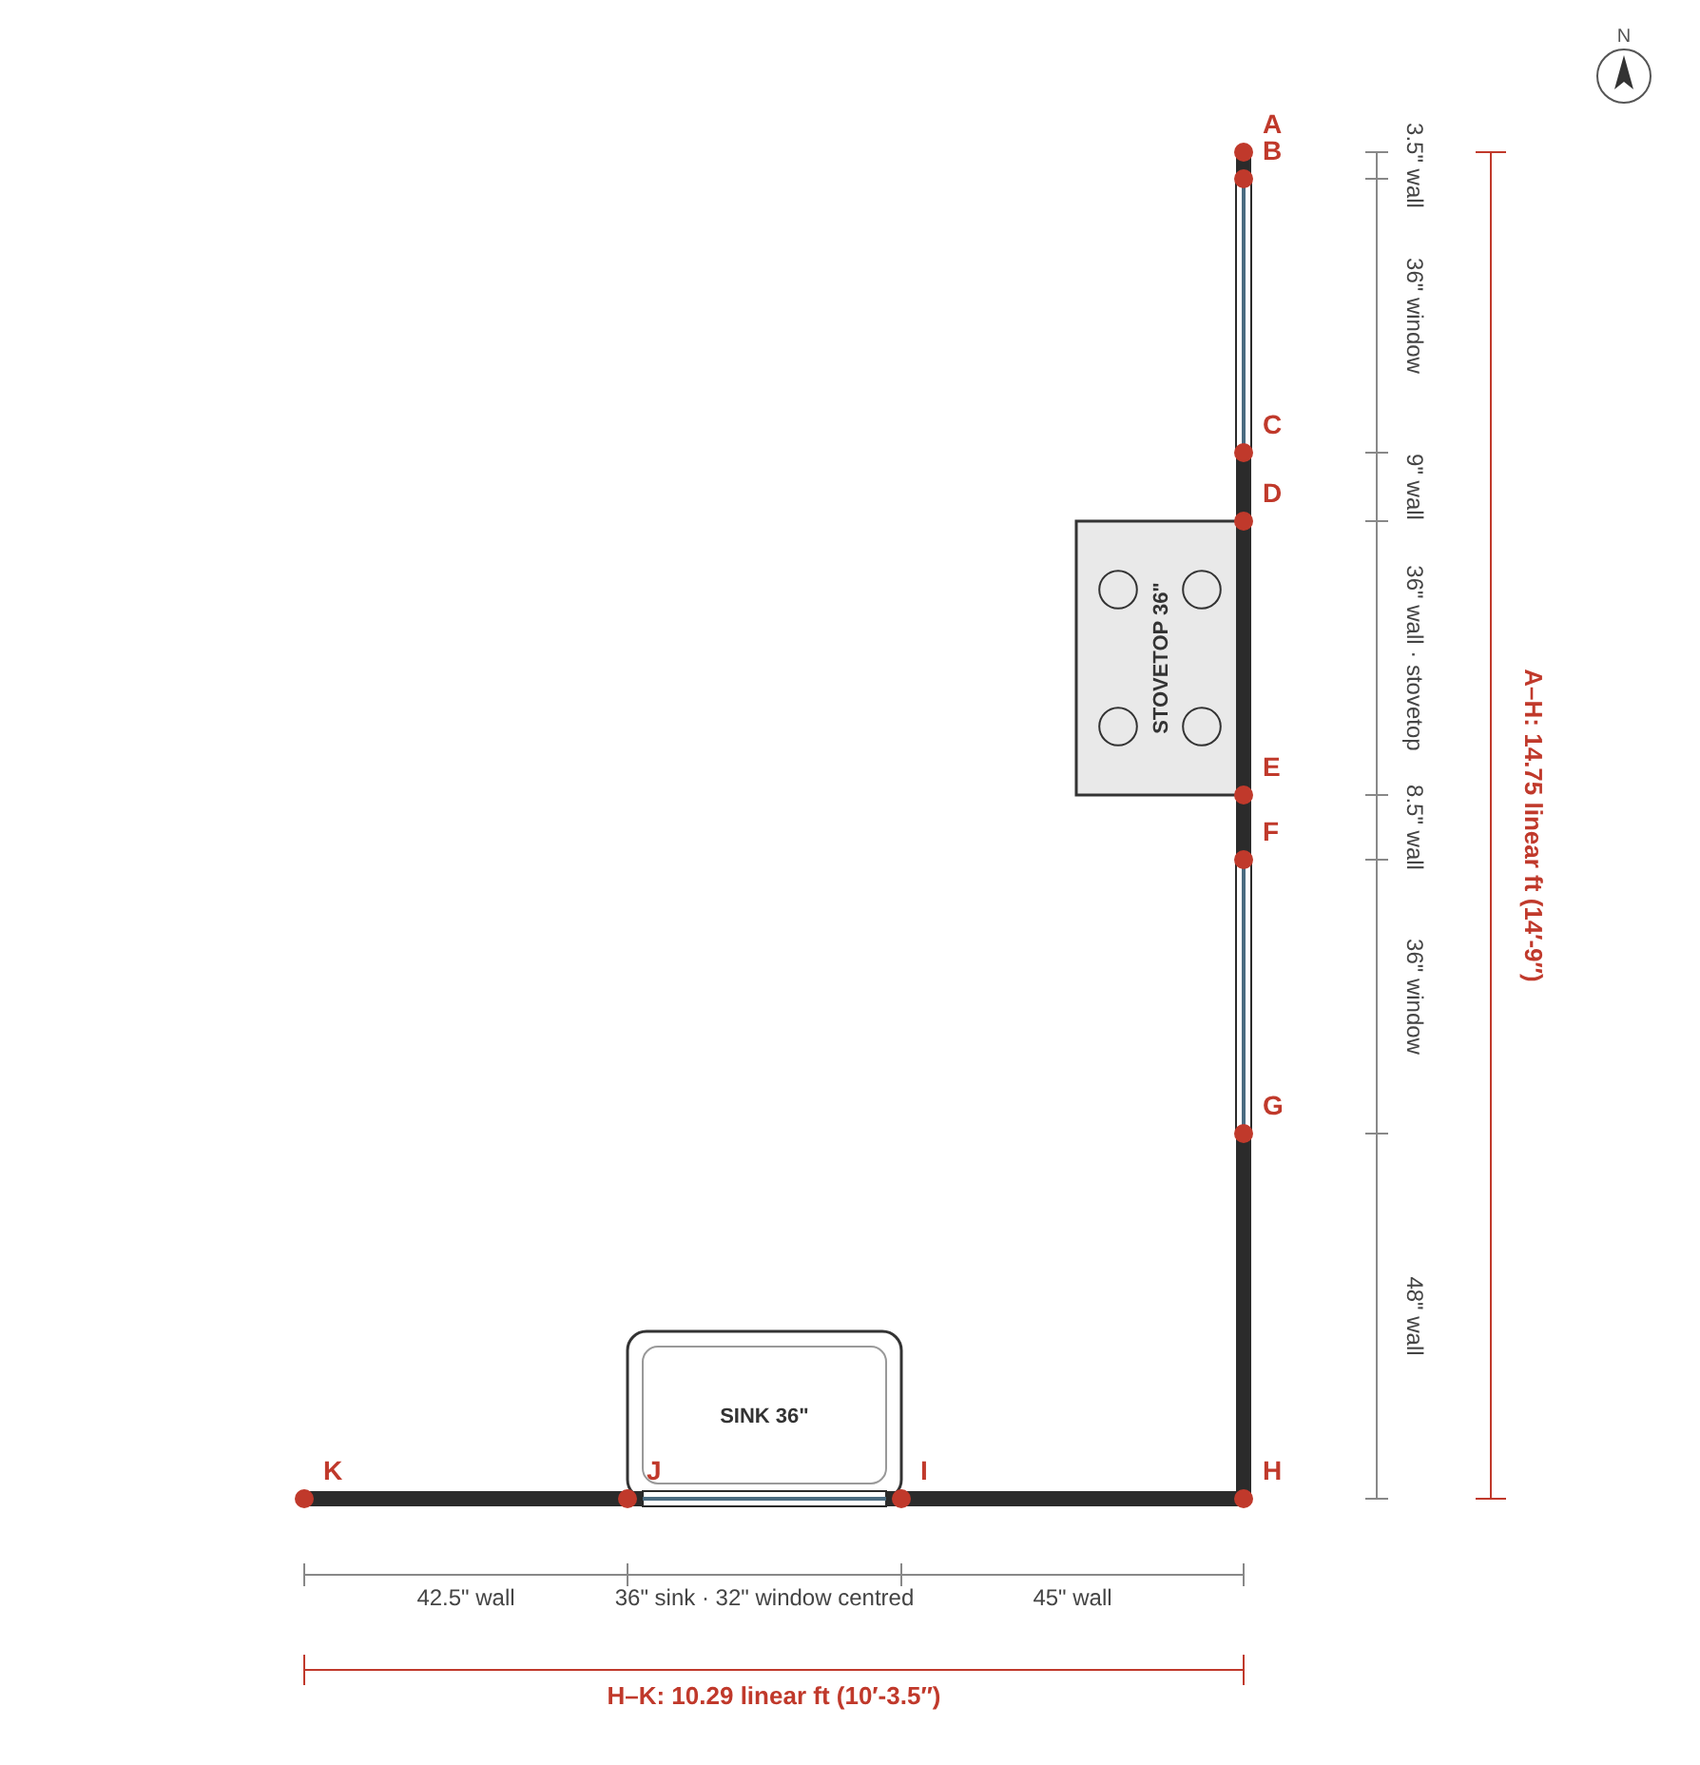
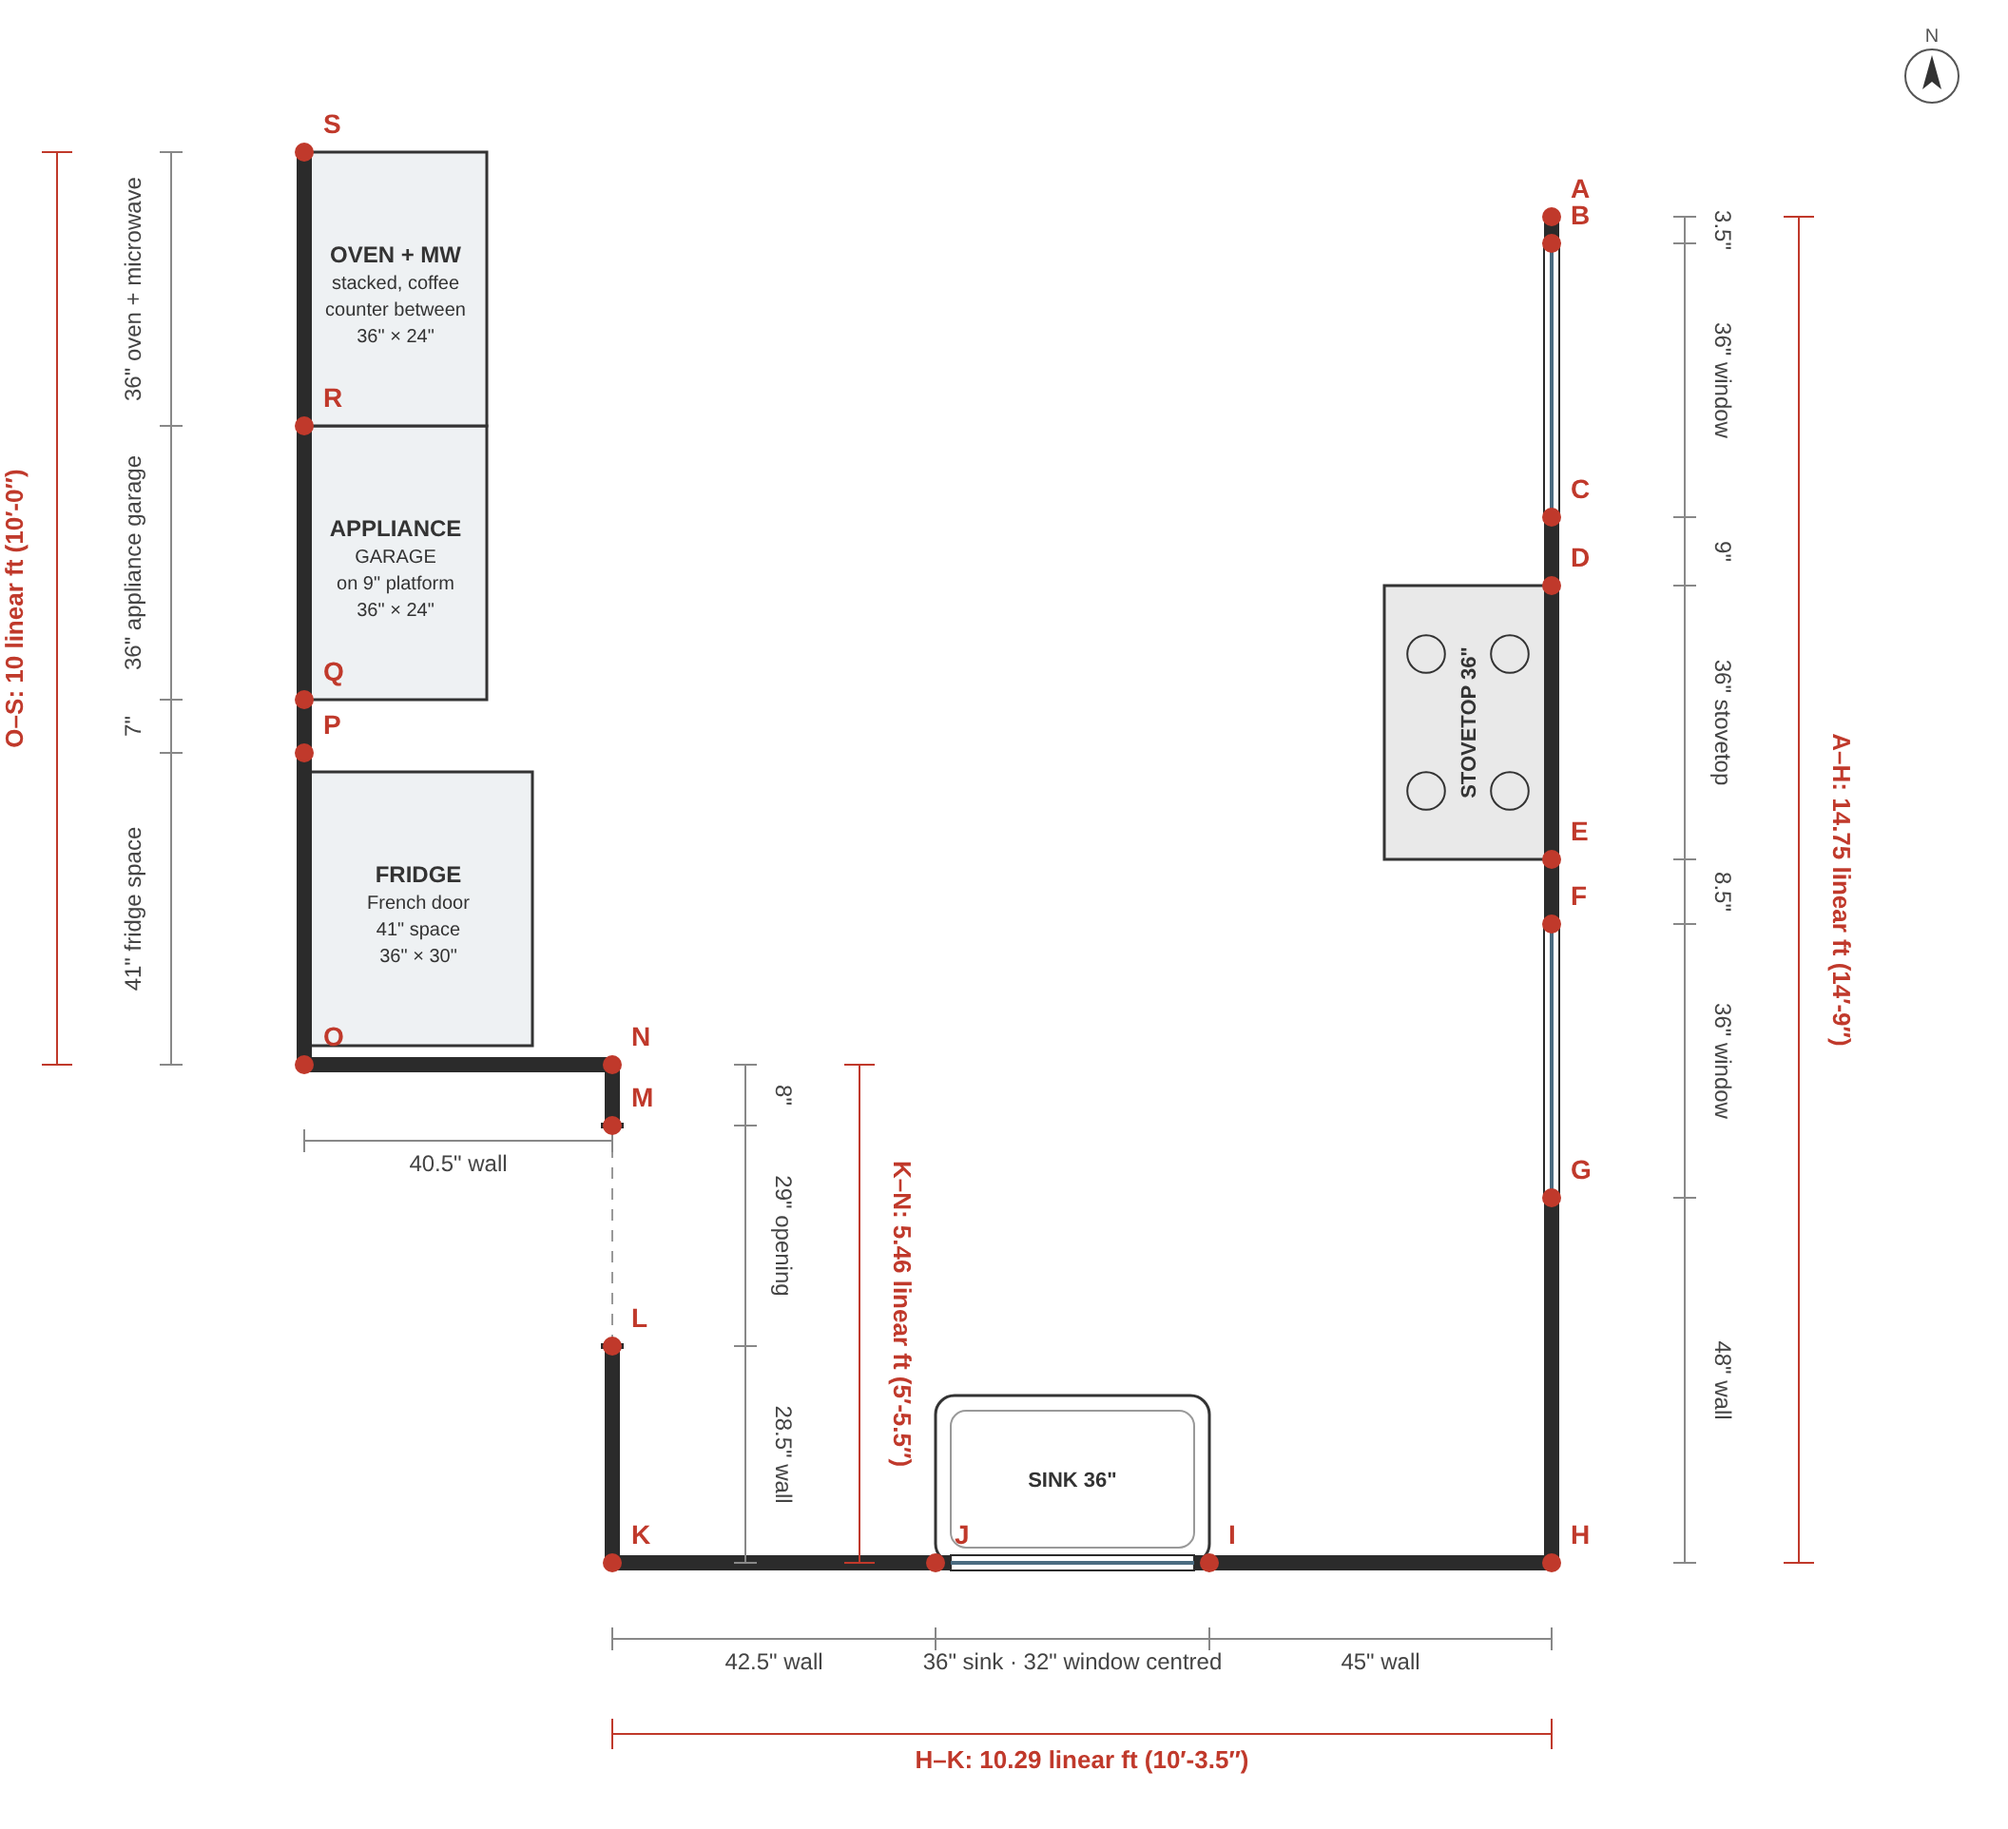
Floor plan: add west wall K-S (opening, fridge alcove, appliance garage, oven + microwave on 9in platform); west elevation
Claude-Session: https://claude.ai/code/session_01N1gJVqnW36KpNULQpj6QJQ

diff --git a/floorplans/build_floorplan.py b/floorplans/build_floorplan.py
@@ -13,7 +13,7 @@ SEGMENTS = [
     ("S", 3.5, "wall", "B"),
     ("S", 36, "window", "C"),
     ("S", 9, "wall", "D"),
-    ("S", 36, "wall:wall · stovetop", "E"),
+    ("S", 36, "wall:stovetop", "E"),
     ("S", 8.5, "wall", "F"),
     ("S", 36, "window", "G"),
     ("S", 48, "wall", "H"),
@@ -23,7 +23,20 @@ SEGMENTS = [
     ("W", 32, "window", "_w2"),
     ("W", 2, "wall", "J"),
     ("W", 42.5, "wall", "K"),
+    # West wall, K to S (south to north), with a 40.5" jog west at N-O
+    ("N", 28.5, "wall", "L"),
+    ("N", 29, "opening:opening", "M"),
+    ("N", 8, "wall", "N"),
+    ("W", 40.5, "wall", "O"),
+    ("N", 41, "wall:fridge space", "P"),
+    ("N", 7, "wall", "Q"),
+    ("N", 36, "wall:appliance garage", "R"),
+    ("N", 36, "wall:oven + microwave", "S"),
 ]
+
+# Force dimension side for walls whose outside is cluttered, keyed by segment end label
+# (1 = east/south of the wall, -1 = west/north). Totals use "A-B" keys.
+DIM_SIDE = {"L": 1, "M": 1, "N": 1, "K-N": 1}
 
 # Dimensions for runs whose segments use hidden "_" points: (from, to, text)
 SPANS = [("I", "J", '36" sink · 32" window centred')]
@@ -31,7 +44,7 @@ SPANS = [("I", "J", '36" sink · 32" window centred')]
 LABELS = {"opening": "walkway opening"}
 MARGIN = 80
 # Overall run dimensions drawn outside the segment dimensions: (from label, to label)
-TOTALS = [("A", "H"), ("H", "K")]
+TOTALS = [("A", "H"), ("H", "K"), ("K", "N"), ("O", "S")]
 
 # Countertops along walls: (points along the wall, depth in inches)
 # Points may be a label or an (x, y) position in inches.
@@ -43,8 +56,12 @@ CORNER_BASE = None
 COUNTERS = []
 
 # Appliances against a wall: (label, from point, to point, width, depth[, note]).
-# Placed flush against the "to" point, projecting into the room.
-APPLIANCES = []
+# Centred on the wall segment between the two points, projecting into the room.
+APPLIANCES = [
+    ("FRIDGE", "P", "O", 36, 30, "French door", '41" space'),
+    ("APPLIANCE", "R", "Q", 36, 24, "GARAGE", "on 9\" platform"),
+    ("OVEN + MW", "S", "R", 36, 24, "stacked, coffee", "counter between"),
+]
 
 # Design constraints: segments (by end points) that must never be a window.
 NO_WINDOW = []
@@ -151,12 +168,14 @@ def build():
         if a[1] == b[1]:  # vertical wall
             nx = 1 if cx_in > a[1] else -1
             sy = 1 if a[2] > b[2] else -1  # from b back toward a
+            off = (abs(a[2] - b[2]) - w) / 2  # centred on the wall segment
             rx = (a[1], a[1] + nx * dep)
-            ry = (b[2], b[2] + sy * w)
+            ry = (b[2] + sy * off, b[2] + sy * (off + w))
         else:
             ny = 1 if cy_in > a[2] else -1
             sx = 1 if a[1] > b[1] else -1
-            rx = (b[1], b[1] + sx * w)
+            off = (abs(a[1] - b[1]) - w) / 2
+            rx = (b[1] + sx * off, b[1] + sx * (off + w))
             ry = (a[2], a[2] + ny * dep)
         (x1, y1), (x2, y2) = P(min(rx), min(ry)), P(max(rx), max(ry))
         out.append(f'  <g id="appliance-{name.lower()}"><rect x="{x1}" y="{y1}" width="{x2 - x1}" height="{y2 - y1}" fill="#eef1f3" stroke="#333" stroke-width="1.5"/>'
@@ -259,16 +278,16 @@ def build():
         g.append('</g>')
         out.append("".join(g))
 
-    def seg_dim(x1, y1, x2, y2, vertical, text):
+    def seg_dim(x1, y1, x2, y2, vertical, text, force=None):
         if vertical:
-            side = 1 if (x1 - ox) / SCALE >= (min(xs) + max(xs)) / 2 else -1  # keep dims outside the room
+            side = force or (1 if (x1 - ox) / SCALE >= (min(xs) + max(xs)) / 2 else -1)  # keep dims outside the room
             dx_ = x1 + side * (DIM_OFFSET + 30)
             mid = (y1 + y2) / 2
             out.append(f'  <g stroke="#888"><line x1="{dx_}" y1="{y1}" x2="{dx_}" y2="{y2}"/>'
                        f'<line x1="{dx_-6}" y1="{y1}" x2="{dx_+6}" y2="{y1}"/><line x1="{dx_-6}" y1="{y2}" x2="{dx_+6}" y2="{y2}"/></g>')
             out.append(f'  <text x="{dx_+16*side}" y="{mid}" font-size="12" fill="#444" text-anchor="middle" transform="rotate({90*side} {dx_+16*side} {mid})">{text}</text>')
         else:
-            vside = 1 if (y1 - oy) / SCALE >= (min(ys) + max(ys)) / 2 else -1
+            vside = force or (1 if (y1 - oy) / SCALE >= (min(ys) + max(ys)) / 2 else -1)
             dy_ = y1 + vside * DIM_OFFSET
             mid = (x1 + x2) / 2
             out.append(f'  <g stroke="#888"><line x1="{x1}" y1="{dy_}" x2="{x2}" y2="{dy_}"/>'
@@ -304,7 +323,8 @@ def build():
                        f'<line x1="{x1}" y1="{y1}" x2="{x2}" y2="{y2}" stroke="#4a6b80" stroke-width="2"/></g>')
         # dimension (segments touching a hidden "_" point are dimensioned by SPANS instead)
         if not (a[0].startswith("_") or b[0].startswith("_")):
-            seg_dim(x1, y1, x2, y2, vertical, f'{length}" {name}')
+            text = f'{length}"' if length < 12 else f'{length}" {name}'  # short segments: number only
+            seg_dim(x1, y1, x2, y2, vertical, text, DIM_SIDE.get(b[0]))
 
     for a_lbl, b_lbl, text in SPANS:
         a, b = by_label[a_lbl], by_label[b_lbl]
@@ -319,7 +339,7 @@ def build():
         ft, rem = divmod(inches, 12)
         text = f"{a_lbl}–{b_lbl}: {f"{inches / 12:.2f}".rstrip("0").rstrip(".")} linear ft ({int(ft)}′-{rem:g}″)"
         if x1 == x2:
-            side = 1 if (x1 - ox) / SCALE >= (min(xs) + max(xs)) / 2 else -1
+            side = DIM_SIDE.get(f"{a_lbl}-{b_lbl}") or (1 if (x1 - ox) / SCALE >= (min(xs) + max(xs)) / 2 else -1)
             dx_ = x1 + side * (DIM_OFFSET + 90)
             mid = (y1 + y2) / 2
             out.append(f'  <g stroke="#c0392b"><line x1="{dx_}" y1="{y1}" x2="{dx_}" y2="{y2}"/>'
@@ -355,10 +375,19 @@ ELEVATIONS = [
      ["A", "B", "C", "D", "E", "F", "G", "H"], 96, 96),
     ("south_elevation.svg", "South wall elevation (H–K), viewed from inside facing south",
      ["H", "I", "_w1", "_w2", "J", "K"], 96, 100),
+    ("west_elevation.svg", "West wall elevation (K–S), viewed from inside facing west",
+     ["K", "L", "M", "N", "O", "P", "Q", "R", "S"], 100, 100,
+     {"project": True,  # N-O is a return wall: O-S sits 40.5" further west
+      "platforms": [("P", "S", 9, "raised floor (wooden box) 9\"")],
+      "openings": {"M": 80},  # opening height assumed
+      "zones": [("O", "P", 0, 70, "FRIDGE (French door)", '41" space · height approx.'),
+                ("Q", "R", 9, 100, "APPLIANCE GARAGE", "36\" (could take 12\" from R–S)"),
+                ("R", "S", 9, 100, "OVEN + MICROWAVE", "stacked, coffee counter between")]}),
 ]
 
 
-def build_elevation(filename, title, labels, ceil0, ceil1):
+def build_elevation(filename, title, labels, ceil0, ceil1, opts=None):
+    opts = opts or {}
     pts = {START[0]: (START[1], START[2])}
     kinds = {}
     for seg in SEGMENTS:
@@ -369,7 +398,10 @@ def build_elevation(filename, title, labels, ceil0, ceil1):
         kinds[label] = kind
     along = [0.0]
     for p, q in zip(labels, labels[1:]):
-        along.append(along[-1] + abs(pts[q][0] - pts[p][0]) + abs(pts[q][1] - pts[p][1]))
+        if opts.get("project"):  # flat projection onto the wall's main axis; return walls collapse
+            along.append(along[-1] + abs(pts[q][1] - pts[p][1]))
+        else:
+            along.append(along[-1] + abs(pts[q][0] - pts[p][0]) + abs(pts[q][1] - pts[p][1]))
     pos = dict(zip(labels, along))
     total = along[-1]
     hmax = max(ceil0, ceil1)
@@ -383,7 +415,7 @@ def build_elevation(filename, title, labels, ceil0, ceil1):
          f'<svg xmlns="http://www.w3.org/2000/svg" viewBox="0 0 {w} {h}" width="{w}" height="{h}" font-family="Helvetica, Arial, sans-serif">',
          f'  <rect width="{w}" height="{h}" fill="#fff"/>',
          f'  <text x="{m}" y="30" font-size="16" font-weight="700" fill="#222">{title}</text>',
-         f'  <text x="{m}" y="50" font-size="11" fill="#555">Ceiling {ceil0:g}"{"" if ceil0 == ceil1 else f" rising to {ceil1:g}"}" · counter {COUNTER_HEIGHT}" · scale 4 px = 1"</text>',
+         f'  <text x="{m}" y="50" font-size="11" fill="#555">Ceiling {ceil0:g}"{"" if ceil0 == ceil1 else f" rising to {ceil1:g}" + chr(34)} · counter {COUNTER_HEIGHT}" · scale 4 px = 1"</text>',
          f'  <path d="M {X(0)} {Y(0)} L {X(0)} {Y(ceil0)} L {X(total)} {Y(ceil1)} L {X(total)} {Y(0)} Z" fill="#f7f4ee" stroke="#2b2b2b" stroke-width="3"/>']
     sills = set()
     for i, (p, q) in enumerate(zip(labels, labels[1:])):
@@ -395,6 +427,23 @@ def build_elevation(filename, title, labels, ceil0, ceil1):
         t0, t1 = along[i], along[i + 1]
         o.append(f'  <rect x="{X(t0)}" y="{Y(sill + wh)}" width="{(t1 - t0) * SCALE}" height="{wh * SCALE}" fill="#dceaf3" stroke="#4a6b80" stroke-width="2"/>')
         o.append(f'  <text x="{X((t0 + t1) / 2)}" y="{Y(sill + wh / 2)}" font-size="11" fill="#2e4a5c" text-anchor="middle">WINDOW {t1 - t0:g}" × {wh:g}"</text>')
+    for i, (p, q) in enumerate(zip(labels, labels[1:])):
+        if q in opts.get("openings", {}):
+            oh = opts["openings"][q]
+            t0, t1 = along[i], along[i + 1]
+            o.append(f'  <rect x="{X(t0)}" y="{Y(oh)}" width="{(t1 - t0) * SCALE}" height="{oh * SCALE}" fill="#fff" stroke="#999" stroke-dasharray="6 4"/>')
+            o.append(f'  <text x="{X((t0 + t1) / 2)}" y="{Y(oh / 2)}" font-size="11" fill="#555" text-anchor="middle">OPENING {t1 - t0:g}"</text>'
+                     f'<text x="{X((t0 + t1) / 2)}" y="{Y(oh / 2) + 14}" font-size="9" fill="#777" text-anchor="middle">no door · {oh}" high (assumed)</text>')
+    for a_lbl, b_lbl, ph, txt in opts.get("platforms", []):
+        t0, t1 = sorted((pos[a_lbl], pos[b_lbl]))
+        o.append(f'  <rect x="{X(t0)}" y="{Y(ph)}" width="{(t1 - t0) * SCALE}" height="{ph * SCALE}" fill="#d9c3a0" stroke="#8a6a3d" stroke-width="1.5"/>')
+        o.append(f'  <text x="{X((t0 + t1) / 2)}" y="{Y(ph / 2) + 4}" font-size="10" fill="#5a4320" text-anchor="middle">{txt}</text>')
+    for a_lbl, b_lbl, z0, z1, ztitle, zsub in opts.get("zones", []):
+        t0, t1 = sorted((pos[a_lbl], pos[b_lbl]))
+        o.append(f'  <rect x="{X(t0) + 3}" y="{Y(z1) + 3}" width="{(t1 - t0) * SCALE - 6}" height="{(z1 - z0) * SCALE - 6}" fill="#eef1f3" fill-opacity="0.6" stroke="#333" stroke-width="1.25" stroke-dasharray="6 4"/>')
+        zc = (z0 + z1) / 2
+        o.append(f'  <text x="{X((t0 + t1) / 2)}" y="{Y(zc)}" font-size="11" font-weight="700" fill="#333" text-anchor="middle">{ztitle}</text>'
+                 f'<text x="{X((t0 + t1) / 2)}" y="{Y(zc) + 14}" font-size="9" fill="#555" text-anchor="middle">{zsub}</text>')
     for kind, name, a_lbl, b_lbl, off, fw, dep in FIXTURES:
         if a_lbl not in pos or b_lbl not in pos or kind not in ("range", "sink"):
             continue
@@ -406,7 +455,14 @@ def build_elevation(filename, title, labels, ceil0, ceil1):
         else:  # sink bowl below the counter line
             o.append(f'  <path d="M {X(t0)} {Y(COUNTER_HEIGHT)} L {X(t0) + 6} {Y(COUNTER_HEIGHT - 9)} L {X(t1) - 6} {Y(COUNTER_HEIGHT - 9)} L {X(t1)} {Y(COUNTER_HEIGHT)}" fill="#fff" stroke="#555" stroke-width="2"/>')
         o.append(f'  <text x="{X((t0 + t1) / 2)}" y="{Y(COUNTER_HEIGHT) - 12}" font-size="11" font-weight="700" fill="#333" text-anchor="middle">{title_} {fw:g}" (at {COUNTER_HEIGHT}" counter height)</text>')
-    vis = [(t, l) for t, l in zip(along, labels) if not l.startswith("_")]
+    vis = []
+    for t, l in zip(along, labels):
+        if l.startswith("_"):
+            continue
+        if vis and abs(vis[-1][0] - t) < 1e-6:  # return wall: both ends project to one spot
+            vis[-1] = (t, vis[-1][1] + "/" + l)
+        else:
+            vis.append((t, l))
     for t, lbl in vis:
         o.append(f'  <line x1="{X(t)}" y1="{Y(0)}" x2="{X(t)}" y2="{Y(0) + 40}" stroke="#aaa" stroke-dasharray="3 3"/>')
         o.append(f'  <text x="{X(t)}" y="{Y(0) + 56}" font-size="14" font-weight="700" fill="#c0392b" text-anchor="middle">{lbl}</text>')
